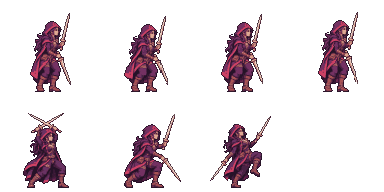
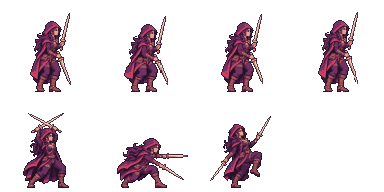
Accept Nikla's scissor-strike pose: her twin-sword motion is complete
Claude-Session: https://claude.ai/code/session_01GaNnj798T1h6Syc1iU5s6y

Changed region(s): [[0.2812, 0.5938, 0.5, 1.0]]

diff --git a/art/inbox/NOTES.md b/art/inbox/NOTES.md
@@ -522,3 +522,10 @@ REFERENCES LOADED: 승인본 c9d582c OK; portrait_800.jpg OK; guide_strip.png OK
 DEVIATIONS: (a) THIS ROUND의 동작을 우선해 1번 열린 V·2번 어깨 위 X·3번 낮은 가위 베기·4번 양옆으로 젖힘. 대기 몸 421px, 발 y=870. 2번은 X가 읽히도록 두 날이 한 지점에서만 교차하고 나머지는 분리. 공간을 위해 1·3번 검을 가파르게 들고 내렸으며 날은 요청의 220px보다 짧게 읽힐 수 있음. (b) 초상화의 칼 두 자루는 양손에 옮겨 등에 남기지 않음. (c) none.
 RISKS AT GAME SIZE: 96px 변환에서 V·X·열리는 두 날이 구분됨. 2번 교차점과 3번 망토에 가까운 아래 손목이 실제 전투 배경에서도 따로 읽히는지 확인 부탁. 피격 중심 보정 -4px.
 PROPOSALS: 이전 등록본 교체 여부는 클로드 검수 후 결정.
+
+## sheet/captain/shadowqueen - 니클라 타격 자세
+CHECK: RESULT: PASS
+REFERENCES LOADED: 쌍검 바탕 aa0687e OK; portrait_800.jpg OK; guide_strip.png OK; guide_1_idle.png, guide_2_windup.png, guide_3_strike.png, guide_4_hit.png OK; Baren anchor OK.
+DEVIATIONS: (a) 3번만 낮은 돌진으로 교체. 위 칼은 가슴 높이에서 수평, 아래 칼은 사선으로 내려 두 끝 모두 앞발보다 오른쪽. 고정 포즈 구역에 맞춰 뒷다리는 앞뒤 원근으로 조금 겹쳐 보임. 1·2·4번은 각 연결 실루엣의 색·좌표·픽셀 마스크가 바탕과 일치. (b) none. (c) none.
+RISKS AT GAME SIZE: 낮게 숙인 타격의 실루엣은 66x46px(변환기가 낮은 자세로 인해 크기 차이 주의 출력). 두 날은 분리되고, 실제 전투에선 X에서 타격으로 넘어가는 골반 전진과 앞발 기준을 확인 부탁. --base의 사각 구간 집계는 3번이 구간 경계를 넘은 픽셀을 2번 구간에 포함하지만 기존 2번 그림 자체는 그대로.
+PROPOSALS: none.

diff --git a/art/requests/phase3/captain_shadowqueen/README.md b/art/requests/phase3/captain_shadowqueen/README.md
@@ -1,19 +1,8 @@
 # 니클라 — 그림자 길드의 여왕 (밤의 여왕) · `sheet/captain/shadowqueen`
 
-## THIS ROUND (overrides anything below that disagrees)
+## THIS ROUND
 
-```
-KIND: fix (pose 3 only). BASE: art/inbox/sheet_captain_shadowqueen.png @ aa0687e on art-inbox - the twin-sword sheet is ACCEPTED and
-registered. Poses 1, 2 and 4 stay exactly as they are (pixel for pixel); the X wind-up (pose 2) is excellent - it is her signature now.
-FIX pose 3 (strike) only: now she crouches with one blade straight up and one blade down - at game size it reads as another guard stance,
-not as the moment of the hit. Make it the RELEASE of the X:
-  - a low DASHING LUNGE toward the right: front knee bent far forward, rear leg stretched long behind, torso leaning forward
-    (the hips about 60-80 px further right than in pose 2), cloak and hair streaming back;
-  - BOTH arms swept forward: near blade extended straight ahead at chest height pointing right, far blade sweeping low and forward
-    ahead of the front knee - the two blades open like scissors toward the enemy, both tips to the RIGHT of her front foot;
-  - same size, face, colours and swords as poses 1, 2 and 4; soles on y=870 (rear foot may be on its toes); blades on the background.
-DELIVER: art/inbox/sheet_captain_shadowqueen.png (overwrite, all four poses in the file). NOTES "## sheet/captain/shadowqueen - 니클라 타격 자세".
-```
+(none - the twin-sword sheet was accepted on 2026-11-26: `aa0687e` + strike pose `0cc6046`. The text below is the original request.)
 
 도트 납품 대기열(`art/requests/dot_queue.md`) 항목. 규칙은 `art/requests/gpt_handoff_notes.md`가 우선이다.
 

diff --git a/art/requests/feedback.md b/art/requests/feedback.md
@@ -484,3 +484,8 @@
   → THIS ROUND: 3번만 X 를 푸는 낮은 돌진 가위 베기(엉덩이 60~80px 앞으로, 두 날 끝이 앞발보다 오른쪽). 나머지 세 자세는 픽셀 그대로.
 - 지금 게임에는 쌍검 판이 들어가 있다(무기가 맞는 쪽이 낫다).
 
+## 니클라 타격 자세 (`0cc6046`) ✅ — 통과, 등록 완료 (ACCEPTED)
+- 3번만 바뀌었다(1·2·4번 게임 픽셀 변화 5~9px = 팔레트 재구성 수준). 낮은 돌진, 위 칼은 가슴 높이로 곧게, 아래 칼은 앞발 앞으로 비스듬히 — 두 칼끝이 모두 적 쪽. 머리칼·망토가 뒤로 흩날린다.
+- 변환기의 "타격 자세 높이 48px" 주의는 낮게 숙인 자세라서 나온 것이다(몸 크기는 같다). 그대로 둔다.
+- 대기(V) → 준비(머리 위 X) → 타격(X 를 풀며 돌진 가위 베기) → 피격: 니클라만의 흐름이 됐다. "캐릭터마다 다른 동작"의 첫 사례로 삼는다.
+
